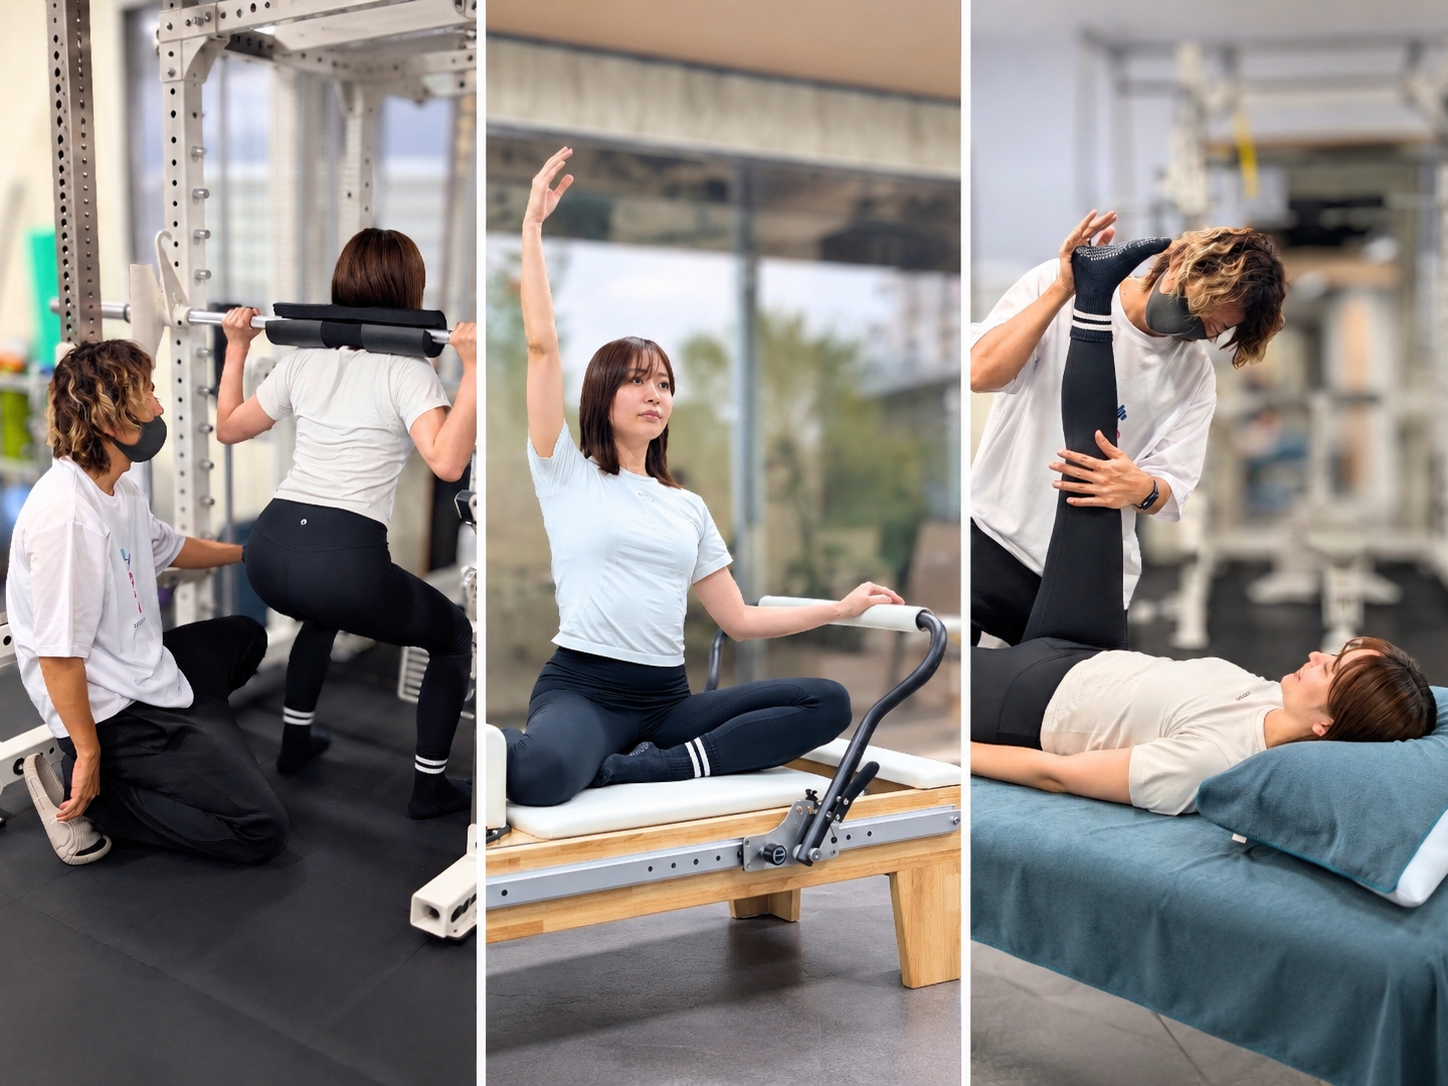
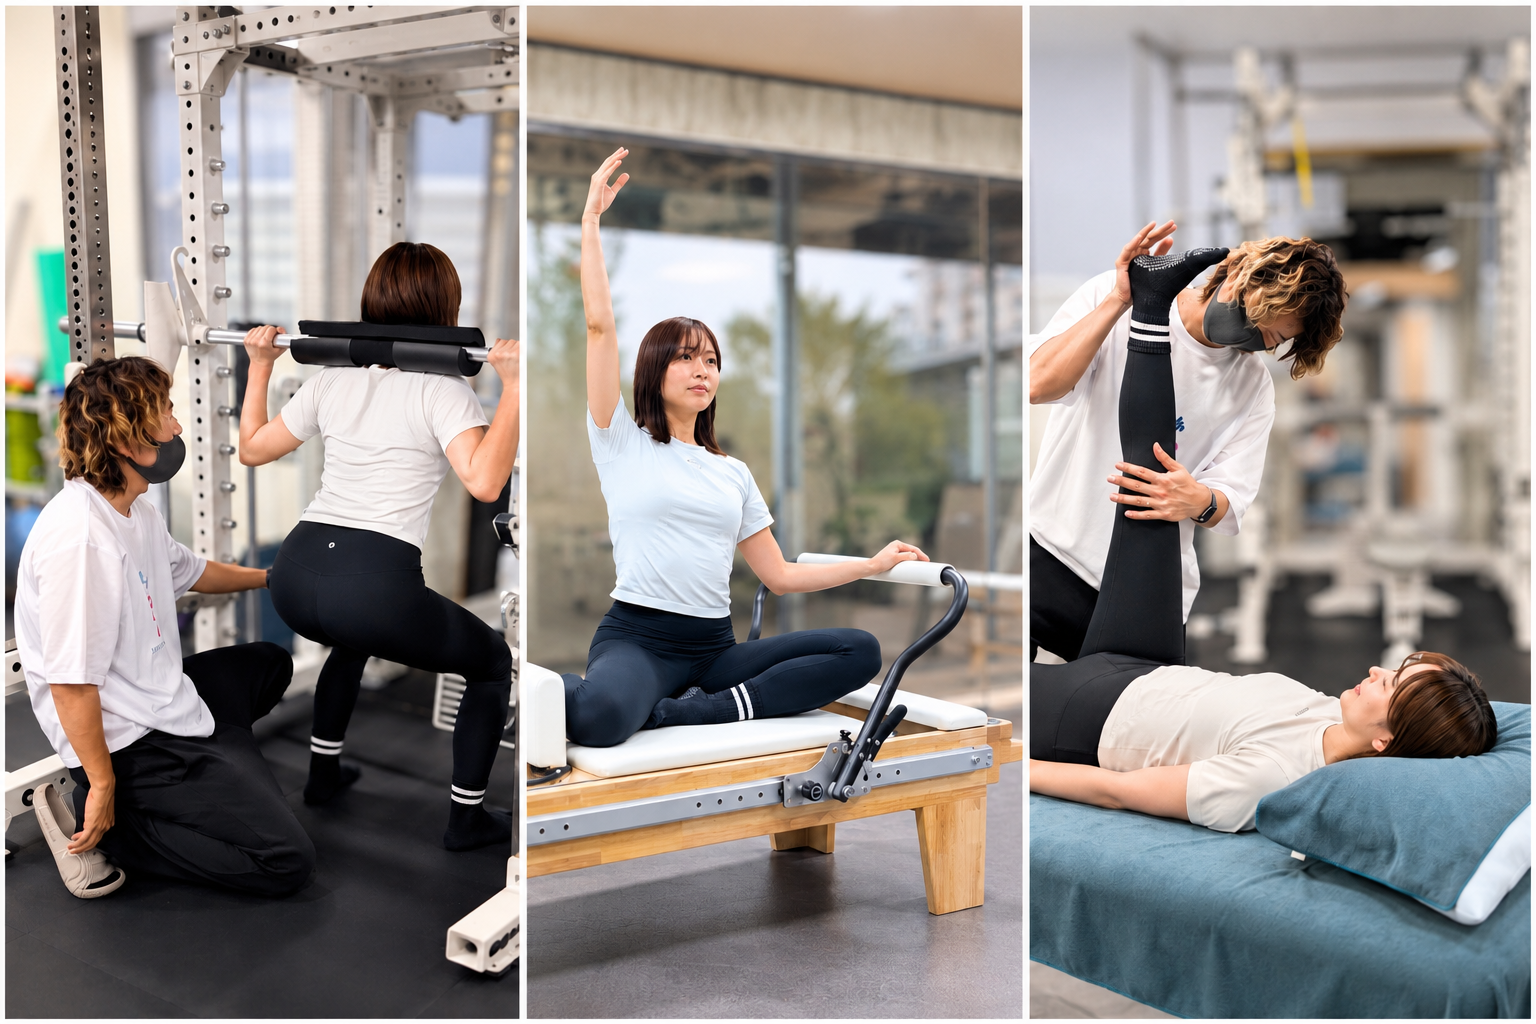
symptom写真の高さを260pxに統一・新規写真を追加

diff --git a/index.html b/index.html
@@ -1162,6 +1162,7 @@
 
     .symptom-photo-wrap {
       width: 100%;
+      height: 260px;
       overflow: hidden;
       background: linear-gradient(135deg, var(--ocean-pale), #cce9f2);
       border-radius: 12px;
@@ -1170,7 +1171,8 @@
 
     .symptom-photo-wrap img {
       width: 100%;
-      height: auto;
+      height: 100%;
+      object-fit: cover;
       display: block;
     }
 
